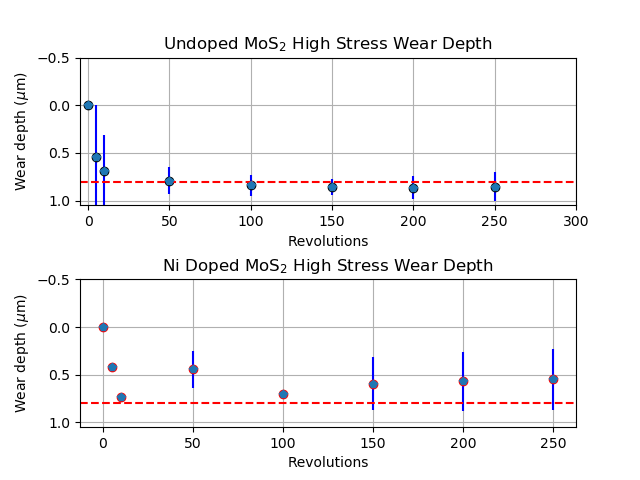
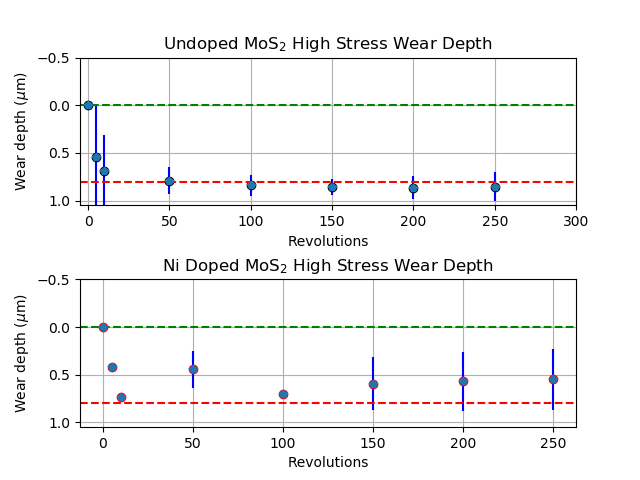
Added CSV

diff --git a/bar_plot.py b/bar_plot.py
@@ -1,0 +1,111 @@
+import numpy as np
+import numpy.random as nr
+import matplotlib.pyplot as plt
+import pandas as pd
+
+# Raw Data Dir A
+sm_dir_A = np.array([3.337e-2, 5.363e-2, 5.385e-2])
+me_dir_A = np.array([2.998e-2, 3.326e-2, 4.881e-2])
+la_dir_A = np.array([6.509e-2, 6.436e-2, 6.280e-2])
+co_dir_A = np.array([7.232e-3, 8.925e-3, 8.356e-3])
+# Raw Data Dir B
+sm_dir_B = np.array([0.080256407, 0.053958992, 0.075448866])
+me_dir_B = np.array([0.029980659, 0.037241283, 0.037114288])
+la_dir_B = np.array([0.072078271, 0.051596897, 0.072595269])
+co_dir_B = np.array([0.006401509, 0.008770047, 0.009168721])
+# Raw Data Dir C
+sm_dir_C = np.array([0.051596897,0.052119924,0.052014684])
+me_dir_C = np.array([0.035520798,0.048053155,0.063077863])
+la_dir_C = np.array([0.070726306,0.077128567,0.072078271])
+co_dir_C = np.array([0.008027776,0.006825227,0.007700462])
+
+#calculate the average
+sm_dir_A_mean = np.mean(sm_dir_A)
+me_dir_A_mean = np.mean(me_dir_A)
+la_dir_A_mean = np.mean(la_dir_A)
+co_dir_A_mean = np.mean(co_dir_A)
+#calculate the standard deviation
+sm_dir_A_std = np.std(sm_dir_A)
+me_dir_A_std = np.std(me_dir_A)
+la_dir_A_std = np.std(la_dir_A)
+co_dir_A_std = np.std(co_dir_A)
+#calculate the average
+sm_dir_B_mean = np.mean(sm_dir_B)
+me_dir_B_mean = np.mean(me_dir_B)
+la_dir_B_mean = np.mean(la_dir_B)
+co_dir_B_mean = np.mean(co_dir_B)
+#calculate the standard deviation
+sm_dir_B_std = np.std(sm_dir_B)
+me_dir_B_std = np.std(me_dir_B)
+la_dir_B_std = np.std(la_dir_B)
+co_dir_B_std = np.std(co_dir_B)
+#calculate the average
+sm_dir_C_mean = np.mean(sm_dir_C)
+me_dir_C_mean = np.mean(me_dir_C)
+la_dir_C_mean = np.mean(la_dir_C)
+co_dir_C_mean = np.mean(co_dir_C)
+#calculate the standard deviation
+sm_dir_C_std = np.std(sm_dir_C)
+me_dir_C_std = np.std(me_dir_C)
+la_dir_C_std = np.std(la_dir_C)
+co_dir_C_std = np.std(co_dir_C)
+
+#list for plot
+dir_A = ['R-1', 'R-2', 'R-3', 'N Control']
+x_pos =  np.arange(len(dir_A)) # array with the count of the number of bars
+CTEs =  [sm_dir_A_mean, me_dir_A_mean, la_dir_A_mean, co_dir_A_mean] #array with the mean
+error = [sm_dir_A_std, me_dir_A_std, la_dir_A_std, co_dir_A_std] #array with the error (std)
+
+#BAr plot with error
+fig, ax = plt.subplots()
+ax.bar(x_pos,  CTEs, color = ['black', 'red', 'blue', 'yellow'], yerr = error, align = 'center', alpha = 0.75, ecolor = 'black', capsize = 10)
+ax.set_ylabel('Scratch Hardness ($GPa$)')
+ax.set_xticks(x_pos)
+ax.set_xticklabels(dir_A)
+ax.set_title('Scratch Hardness Direction A')
+#ax.yaxis.grid(True)
+
+# Save the figure and show
+plt.tight_layout()
+plt.savefig('bar_sh_dir_A.png')
+plt.show()
+
+#list for plot
+dir_B = ['R-1', 'R-2', 'R-3', 'N Control']
+x_pos =  np.arange(len(dir_B)) # array with the count of the number of bars
+CTEs =  [sm_dir_B_mean, me_dir_B_mean, la_dir_B_mean, co_dir_B_mean] #array with the mean
+error = [sm_dir_B_std, me_dir_B_std, la_dir_B_std, co_dir_B_std] #array with the error (std)
+
+#BAr plot with error
+fig, ax = plt.subplots()
+ax.bar(x_pos,  CTEs, color = ['black', 'red', 'blue', 'yellow'], yerr = error, align = 'center', alpha = 0.75, ecolor = 'black', capsize = 10)
+ax.set_ylabel('Scratch Hardness ($GPa$)')
+ax.set_xticks(x_pos)
+ax.set_xticklabels(dir_B)
+ax.set_title('Scratch Hardness Direction B')
+#ax.yaxis.grid(True)
+
+# Save the figure and show
+plt.tight_layout()
+plt.savefig('bar_sh_dir_B.png')
+plt.show()
+
+#list for plot
+dir_C = ['R-1', 'R-2', 'R-3', 'N Control']
+x_pos =  np.arange(len(dir_C)) # array with the count of the number of bars
+CTEs =  [sm_dir_C_mean, me_dir_C_mean, la_dir_C_mean, co_dir_C_mean] #array with the mean
+error = [sm_dir_C_std, me_dir_C_std, la_dir_C_std, co_dir_C_std] #array with the error (std)
+
+#BAr plot with error
+fig, ax = plt.subplots()
+ax.bar(x_pos,  CTEs, color = ['black', 'red', 'blue', 'yellow'], yerr = error, align = 'center', alpha = 0.75, ecolor = 'black', capsize = 10)
+ax.set_ylabel('Scratch Hardness ($GPa$)')
+ax.set_xticks(x_pos)
+ax.set_xticklabels(dir_C)
+ax.set_title('Scratch Hardness Direction C')
+#ax.yaxis.grid(True)
+
+# Save the figure and show
+plt.tight_layout()
+plt.savefig('bar_sh_dir_C.png')
+plt.show()

diff --git a/wear_depth_plot.py b/wear_depth_plot.py
@@ -2,63 +2,78 @@ import matplotlib
 import matplotlib.pyplot as plt
 import matplotlib.transforms as transforms
 import numpy as np
+from sqlalchemy.sql.functions import sum
+
+revolutions = np.array([0, 5, 10, 50, 100, 150, 200, 250])
 
 # Data Undoped for plotting
-t1 = np.array([0, 5, 10, 50, 100, 150, 200, 250])
-s1 = np.array([0, 0.537, 0.691, 0.791, 0.840, 0.857, 0.8635, 0.8545])
-e1 = [0, 0.5423, 0.3818, 0.1407, 0.1061, 0.0827, 0.1223, 0.1506]
+UD_raw_s1 = np.array([0, 0.555,0.816,0.738,1.614,1.607,1.654,1.675])
+UD_raw_s2 = np.array([0, 0.67, 0.66,1.16,1.82,1.85,1.82,1.93])
 
+UD_mean = np.mean([UD_raw_s1,UD_raw_s2], axis = 0)
+UD_std = np.std([UD_raw_s1,UD_raw_s2], axis = 0)
+print(UD_mean)
+print(UD_std)
+
+'''
 # Data Ni-doped for plotting
-t2 = np.array([0, 5, 10, 50,100,150,200,250])
-s2 = np.array([0, 0.417, 0.733, 0.4435, 0.707, 0.594, 0.5705, 0.5465])
-e2 = [0, 0, 0, 0.1944, 0, 0.2758, 0.3118, 0.3189]
+ND_raw_s1 = np.array([0, ])
+ND_raw_s2 = np.array([0, ])
+'''
+
+
 
 # Single plot
-#fig, ax = plt.subplots()
+fig, ax = plt.subplots()
 
-#ax.set_ylim(1.2,0)
-#ax.plot(t1, s1, 'o')
-#ax.errorbar(t1, s1, yerr=e1,fmt='p')
-#ax.plot(t2, s2, 'o')
-#ax.errorbar(t2, s2, yerr=e2,fmt='p')
-
-#ax.set(xlabel='Revolutions', ylabel="Wear depth ($\mu$m)",
-#       title='Undoped MoS$_2$ High Stress Wear Depth')
+ax.set_ylim(2,-.5)
+ax.set_xlim(-5,300)
+ax.plot(revolutions, UD_mean, 'o', label='Undoped MoS$_2$')
+ax.errorbar(revolutions, UD_mean, yerr=UD_std)
+ax.axhline(y=0.0, linestyle='--', color="green", label='Disk Surface')
+ax.axhline(y=0.8, linestyle='--', color="red", label='Coating Theoretical Thickness')
 
 
-#ax.grid()
-
-# 2 Subplots
-
-fig, (ax1, ax2) = plt.subplots(2, 1)
-fig.subplots_adjust(hspace=0.5)
-
-ax1.set_ylim(1.05,-0.5)
-ax1.set_xlim(-5,300)
-ax1.plot(t1, s1, 'ko')
-ax1.axhline(y = 0.8, linestyle='--', color="red")
-ax1.errorbar(t1, s1, yerr=e1,fmt='p', ecolor='blue')
-
-#trans = transforms.blended_transform_factory(
-#    ax1.get_yticklabels()[0].get_transform(), ax1.transData)
-#ax1.text(0,0.8, "{:.0f}".format(0.8), color="red", transform=trans,
-#        ha="left", va="center")
-
-ax1.set(xlabel='Revolutions', ylabel="Wear depth ($\mu$m)",
-       title='Undoped MoS$_2$ High Stress Wear Depth')
-ax1.grid()
-
-ax2.set_ylim(1.05,-0.5)
-ax1.set_xlim(-5,300)
-ax2.plot(t2, s2, 'ro')
-ax2.axhline(y = 0.8, linestyle= '--', color="red")
-ax2.errorbar(t2, s2, yerr=e2,fmt='p', ecolor='blue')
-
-ax2.set(xlabel='Revolutions', ylabel="Wear depth ($\mu$m)",
-       title='Ni Doped MoS$_2$ High Stress Wear Depth')
-ax2.grid()
+ax.set(xlabel='Revolutions', ylabel="Wear depth ($\mu$m)",
+       title='High Stress Wear Depth')
+ax.grid()
+ax.legend()
 
 plt.draw()
-fig.savefig("UD_HS_AM_RT.png")
+fig.savefig("test.png")
 plt.show()
+
+'''
+# 2 Subplots
+def plot_wear_depth(t1,s1,t2,s2)
+
+       fig, (ax1, ax2) = plt.subplots(2, 1)
+       fig.subplots_adjust(hspace=0.5)
+
+       ax1.set_ylim(1.05,-0.5)
+       ax1.set_xlim(-5,300)
+       ax1.plot(t1, s1, 'ko')
+       ax1.axhline(y = 0.0, linestyle= '--', color="green")
+       ax1.axhline(y = 0.8, linestyle='--', color="red")
+       ax1.errorbar(t1, s1, yerr=e1,fmt='p', ecolor='blue')
+
+       ax1.set(xlabel='Revolutions', ylabel="Wear depth ($\mu$m)",
+       title='Undoped MoS$_2$ High Stress Wear Depth')
+       ax1.grid()
+
+       ax2.set_ylim(1.05,-0.5)
+       ax2.set_xlim(-5,300)
+       ax2.plot(t2, s2, 'ro')
+       ax2.axhline(y = 0.0, linestyle= '--', color="green")
+       ax2.axhline(y = 0.8, linestyle= '--', color="red")
+       ax2.errorbar(t2, s2, yerr=e2,fmt='p', ecolor='blue')
+
+       ax2.set(xlabel='Revolutions', ylabel="Wear depth ($\mu$m)",
+       title='Ni Doped MoS$_2$ High Stress Wear Depth')
+       ax2.grid()
+
+       plt.draw()
+       fig.savefig("UD_HS_AM_RT.png")
+       plt.show()
+'''
 

diff --git a/Data_Frame.py b/Data_Frame.py
@@ -1,0 +1,37 @@
+import pandas as pd
+import glob, os
+
+pd.set_option('display.max_colwidth', -1)
+
+'''
+# Rename multiple CSV files in a folder
+def rename(dir, pathAndFilename, pattern, titlePattern):
+    os.rename(pathAndFilename, os.path.join(dir, titlePattern))
+
+path = os.path.expanduser('~//*csv')
+
+for i, fname in enumerate(glob.glob(path)):
+    rename(os.path.expanduser('`//*.csv'), fname = r'*.csv',r'test{}.csv'.format(i))
+'''
+# Load several
+result = pd.DataFrame()
+
+path = os.path.expanduser("/C:/Users/romer/PycharmProjects/RT_plots/ND_HS_AM_RT_14mm_50.csv")
+
+for fname in glob.glob(path):
+    head, tail = os.path.split(fname)
+    df = pd.read_csv(fname, sep=";")
+    df2 = df.sort_values(by=['Profile 1'], ascending=False).drop(['Fit', 'Fit'], axis=1).iloc[15:20,:]
+    df2['y'] = tail
+    result = pd.concat([result, df2])
+#result.sort_values(by=['COF']).iloc[0:10,]
+
+print(result)
+
+'''
+stock_files = sorted(glob('RT_plots/ND_*_AM_RT_14mm_*.csv'))
+print(stock_files)
+
+pd.concat((pd.read_csv(file).assign(filename = file)
+          for file in stock_files), ignore_index = True)
+'''
